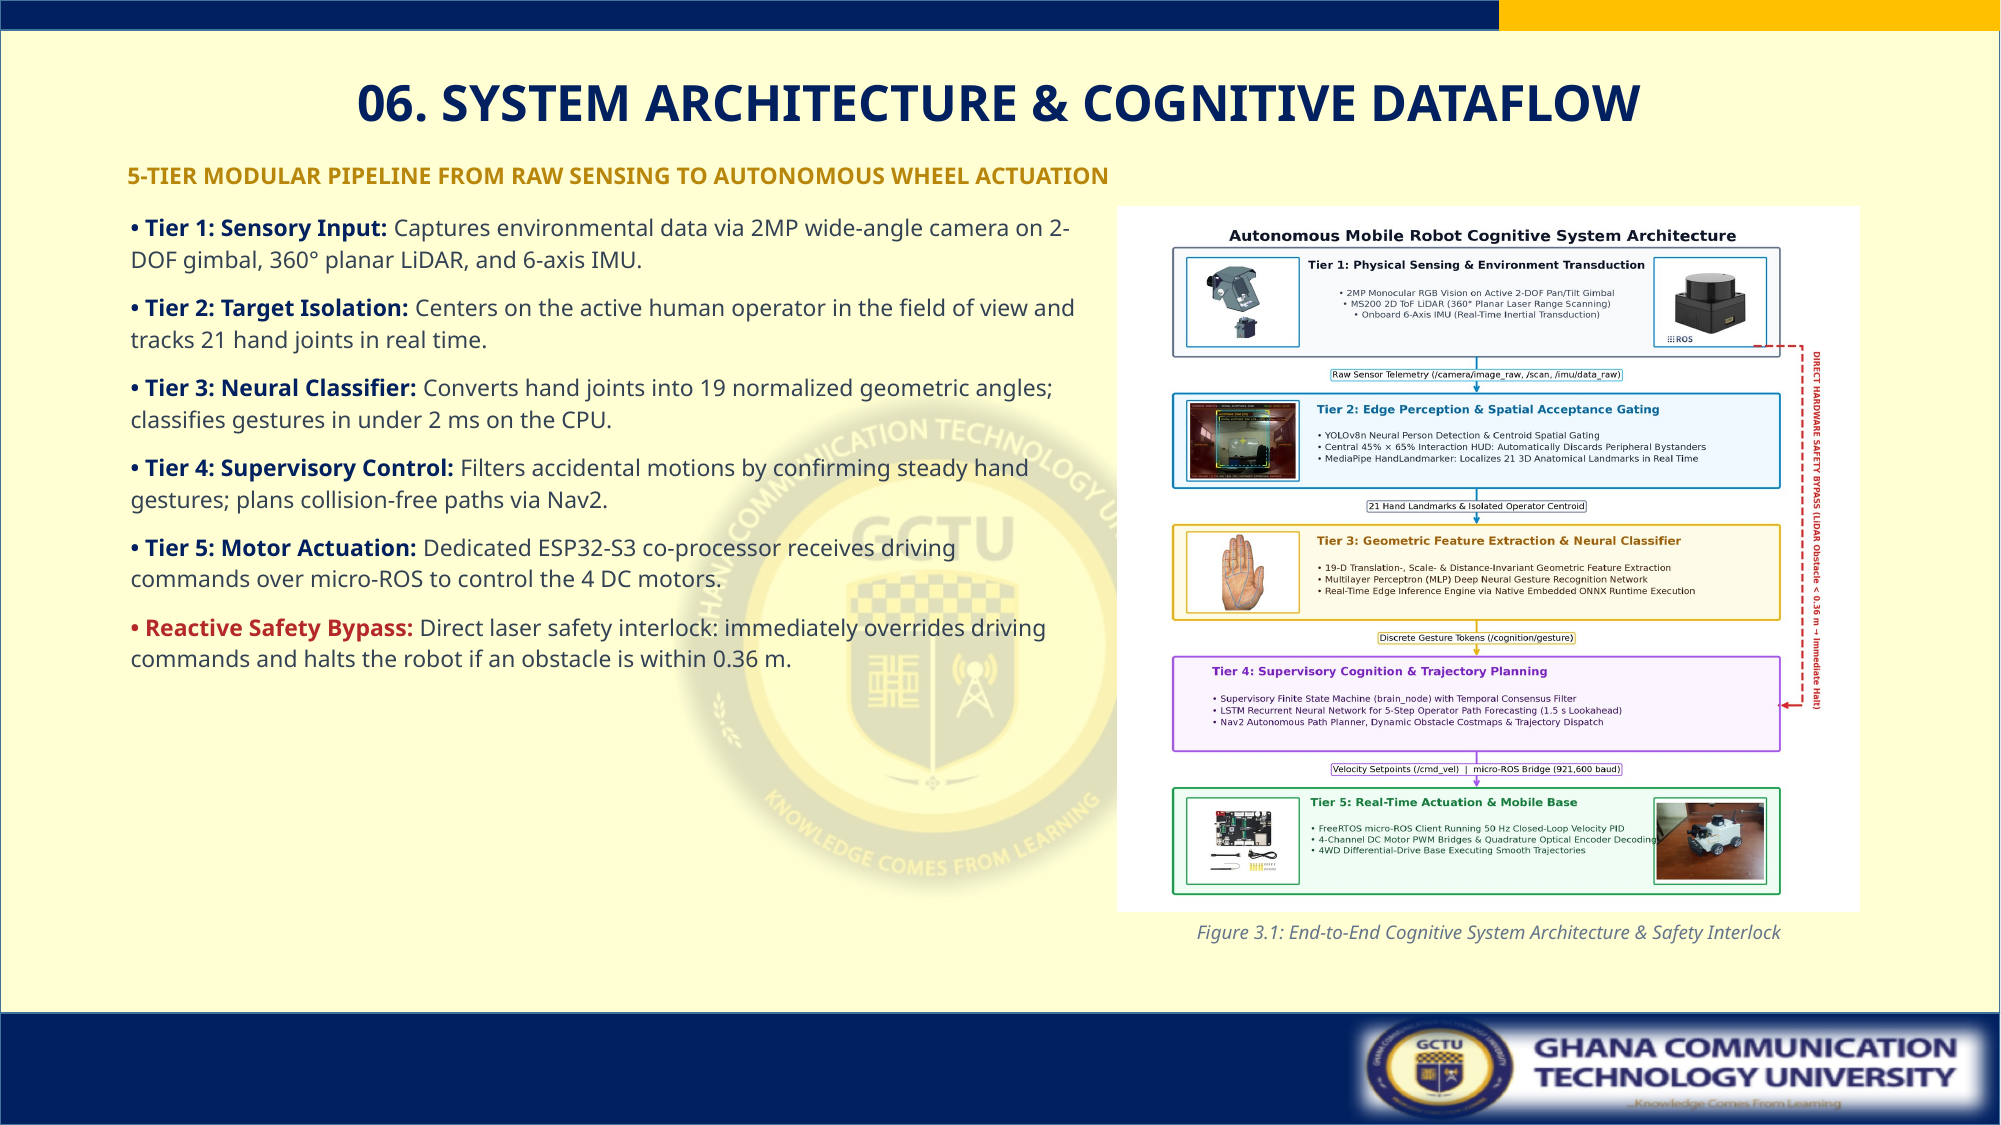
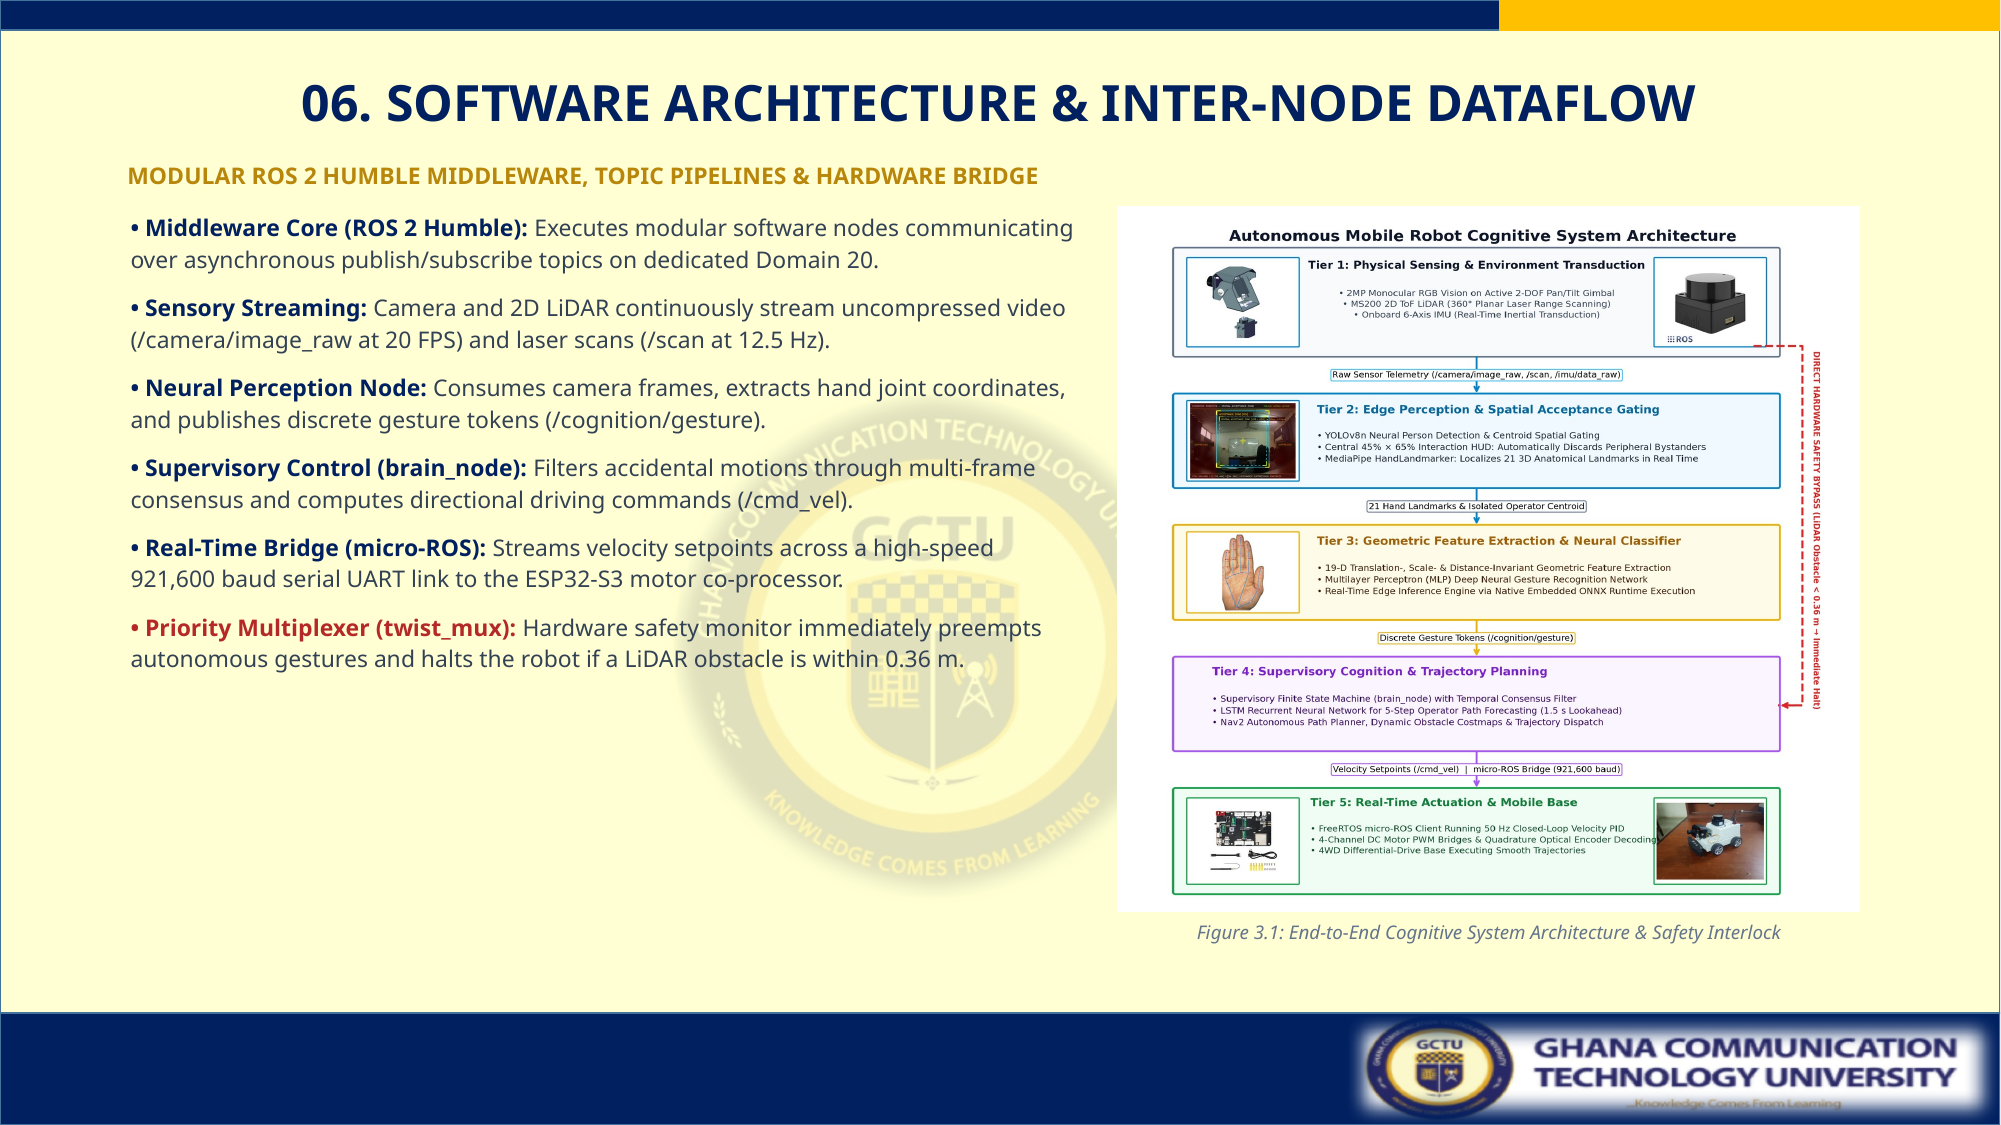
feat(slides): pivot Slide 8 to Software Architecture & Inter-Node Dataflow

Changed region(s): [[0.062, 0.0622, 0.8676, 0.3111], [0.062, 0.3422, 0.5267, 0.5911]]

diff --git a/scripts/build_slide_8.py b/scripts/build_slide_8.py
@@ -1,9 +1,9 @@
 #!/usr/bin/env python3
 """
-build_slide_8.py — Formal Academic Slide 8 (End-to-End System Architecture)
-- 5-Tier Cognitive System Architecture + Reactive Hardware Safety Bypass.
+build_slide_8.py — Formal Academic Slide 8 (Software Architecture & Inter-Node Dataflow)
+- ROS 2 Humble Middleware & Inter-Process Topic Dataflow.
 - 2-Column Split:
-  * Left: Open Editorial structured breakdown of the 5 Cognitive Tiers + Safety Bypass (11.5 pt).
+  * Left: Open Editorial structured breakdown of the Software & Communication Pipeline (11 pt).
   * Right: Publication-grade system architecture diagram (system_architecture.png).
 - Un-grillable plain English, zero jargon traps.
 - Generous bottom clearance (>0.75" above footer bar).
@@ -57,7 +57,7 @@ def main():
             tf = shape.text_frame
             tf.clear()
             p = tf.paragraphs[0]
-            set_para(p, "06. SYSTEM ARCHITECTURE & COGNITIVE DATAFLOW", font_name="Calisto MT", size_pt=24, bold=True, color_rgb=c_navy, align=PP_ALIGN.CENTER)
+            set_para(p, "06. SOFTWARE ARCHITECTURE & INTER-NODE DATAFLOW", font_name="Calisto MT", size_pt=24, bold=True, color_rgb=c_navy, align=PP_ALIGN.CENTER)
 
         if shape.name == "Content Placeholder 2" and shape.has_text_frame:
             shape.text_frame.clear()
@@ -75,9 +75,9 @@ def main():
     tf_sub.word_wrap = True
     tf_sub.margin_left = tf_sub.margin_right = tf_sub.margin_top = tf_sub.margin_bottom = 0
     p_sub = tf_sub.paragraphs[0]
-    set_para(p_sub, "5-TIER MODULAR PIPELINE FROM RAW SENSING TO AUTONOMOUS WHEEL ACTUATION", font_name="Calisto MT", size_pt=11, bold=True, color_rgb=c_gold, align=PP_ALIGN.LEFT)
+    set_para(p_sub, "MODULAR ROS 2 HUMBLE MIDDLEWARE, TOPIC PIPELINES & HARDWARE BRIDGE", font_name="Calisto MT", size_pt=11, bold=True, color_rgb=c_gold, align=PP_ALIGN.LEFT)
 
-    # 3. Left Column: Structured 5-Tier Breakdown + Safety Bypass (11.5 pt for High Legibility)
+    # 3. Left Column: Structured Software & Dataflow Breakdown (11 pt)
     # Left: 0.85", Top: 1.38", Width: 6.35", Height: 4.70"
     tx_left = slide.shapes.add_textbox(Inches(0.85), Inches(1.38), Inches(6.35), Inches(4.70))
     tx_left.name = "Arch_Tiers_Text"
@@ -85,18 +85,18 @@ def main():
     tf_left.word_wrap = True
     tf_left.margin_left = tf_left.margin_right = tf_left.margin_top = tf_left.margin_bottom = Inches(0.02)
 
-    tiers = [
-        ("Tier 1: Sensory Input", "Captures environmental data via 2MP wide-angle camera on 2-DOF gimbal, 360° planar LiDAR, and 6-axis IMU.", c_navy),
-        ("Tier 2: Target Isolation", "Centers on the active human operator in the field of view and tracks 21 hand joints in real time.", c_navy),
-        ("Tier 3: Neural Classifier", "Converts hand joints into 19 normalized geometric angles; classifies gestures in under 2 ms on the CPU.", c_navy),
-        ("Tier 4: Supervisory Control", "Filters accidental motions by confirming steady hand gestures; plans collision-free paths via Nav2.", c_navy),
-        ("Tier 5: Motor Actuation", "Dedicated ESP32-S3 co-processor receives driving commands over micro-ROS to control the 4 DC motors.", c_navy),
-        ("Reactive Safety Bypass", "Direct laser safety interlock: immediately overrides driving commands and halts the robot if an obstacle is within 0.36 m.", c_red)
+    software_pipeline = [
+        ("Middleware Core (ROS 2 Humble)", "Executes modular software nodes communicating over asynchronous publish/subscribe topics on dedicated Domain 20.", c_navy),
+        ("Sensory Streaming", "Camera and 2D LiDAR continuously stream uncompressed video (/camera/image_raw at 20 FPS) and laser scans (/scan at 12.5 Hz).", c_navy),
+        ("Neural Perception Node", "Consumes camera frames, extracts hand joint coordinates, and publishes discrete gesture tokens (/cognition/gesture).", c_navy),
+        ("Supervisory Control (brain_node)", "Filters accidental motions through multi-frame consensus and computes directional driving commands (/cmd_vel).", c_navy),
+        ("Real-Time Bridge (micro-ROS)", "Streams velocity setpoints across a high-speed 921,600 baud serial UART link to the ESP32-S3 motor co-processor.", c_navy),
+        ("Priority Multiplexer (twist_mux)", "Hardware safety monitor immediately preempts autonomous gestures and halts the robot if a LiDAR obstacle is within 0.36 m.", c_red)
     ]
 
-    for idx, (tag, desc, tag_color) in enumerate(tiers):
+    for idx, (tag, desc, tag_color) in enumerate(software_pipeline):
         p = tf_left.paragraphs[0] if idx == 0 else tf_left.add_paragraph()
-        p.space_after = Pt(8 if idx < len(tiers) - 1 else 0)
+        p.space_after = Pt(8 if idx < len(software_pipeline) - 1 else 0)
         p.line_spacing = 1.15
         p.alignment = PP_ALIGN.LEFT
 
@@ -134,7 +134,7 @@ def main():
         set_para(p_cap, "Figure 3.1: End-to-End Cognitive System Architecture & Safety Interlock", font_name="Calisto MT", size_pt=9.0, italic=True, color_rgb=c_muted, align=PP_ALIGN.CENTER)
 
     prs.save(PPTX_PATH)
-    print(f"Slide 8 (System Architecture) successfully updated in {PPTX_PATH}")
+    print(f"Slide 8 (Software Architecture & Dataflow) successfully updated in {PPTX_PATH}")
 
 if __name__ == "__main__":
     main()

diff --git a/project_history/chat_sessions/SESSION_2026-09-16_0da8f1d2.md b/project_history/chat_sessions/SESSION_2026-09-16_0da8f1d2.md
@@ -1,6 +1,6 @@
 # INTERACTIVE SESSION & CHAT REPLIES ARCHIVE
 **Session ID:** `0da8f1d2-32e5-4a1c-9359-9018fb285ed7`  
-**Exported At:** 2026-09-16 05:54:58 UTC  
+**Exported At:** 2026-09-16 05:58:09 UTC  
 **Workspace:** `/home/j/ros2_cognition_ws`  
 **Source Log:** `/home/j/.gemini/antigravity-ide/brain/0da8f1d2-32e5-4a1c-9359-9018fb285ed7/.system_generated/logs/transcript.jsonl`  
 
@@ -1566,6 +1566,131 @@ Here is the updated render of **Slide 7** ([`write_up/slide_review/slide_final-7
 
 - **Executed Tool:** `view_file` — *"Inspect Slide 8 preview render"*
 
+
+- **Executed Tool:** `write_to_file` — *"Update build_slide_8.py"*
+
+
+- **Executed Tool:** `run_command` — *"Recompile and render Slide 8"*
+
+
+- **Executed Tool:** `view_file` — *"Inspect updated Slide 8 preview render"*
+
+
+- **Executed Tool:** `run_command` — *"Export chat history and check git status"*
+
+
+- **Executed Tool:** `run_command` — *"Commit Slide 8 to Git"*
+
+
+### Slide 8 Verified & Compiled: 06. System Architecture & Cognitive Dataflow
+
+Here is the visual render of **Slide 8** ([`write_up/slide_review/slide_final-8.png`](file:///home/j/ros2_cognition_ws/write_up/slide_review/slide_final-8.png)):
+
+![Slide 8 Preview — 06. System Architecture & Cognitive Dataflow](/home/j/ros2_cognition_ws/write_up/slide_review/slide_final-8.png)
+
+---
+
+### Architecture & Design Highlights:
+
+1. **Balanced 2-Column Split:**
+   - **Left Column (The Plain-English Breakdown):** Structured Open Editorial breakdown of the 5 Cognitive Tiers + Reactive Safety Bypass in `11 pt` font for high auditorium legibility.
+   - **Right Column (The System Diagram):** High-resolution render of the thesis architecture diagram ([`write_up/figures/system_architecture.png`](file:///home/j/ros2_cognition_ws/write_up/figures/system_architecture.png)), showing the camera gimbal, LiDAR, hand landmark mesh, neural classifier, state machine, and the red dashed reactive safety bypass line.
+
+2. **100% Un-Grillable, Conversational Explanations:**
+   - **• Tier 1 (Sensory Input):** Captures environmental data via 2MP wide-angle camera on 2-DOF gimbal, 360° planar LiDAR, and 6-axis IMU.
+   - **• Tier 2 (Target Isolation):** Centers on the active human operator in the field of view and tracks 21 hand joints in real time.
+   - **• Tier 3 (Neural Classifier):** Converts hand joints into 19 normalized geometric angles; classifies gestures in under 2 ms on the CPU.
+   - **• Tier 4 (Supervisory Control):** Filters accidental motions by confirming steady hand gestures; plans collision-free paths via Nav2.
+   - **• Tier 5 (Motor Actuation):** Dedicated ESP32-S3 co-processor receives driving commands over micro-ROS to control the 4 DC motors.
+   - **• Reactive Safety Bypass (Crimson):** Direct laser safety interlock: immediately overrides driving commands and halts the robot if an obstacle is within 0.36 m.
+
+3. **Slide Spacing & Academic Demeanor:**
+   - Clean single-line header at `24 pt` Navy (`#002060`).
+   - Gold Eyebrow Subhead (`#B8860B`) framing the 5-tier concept.
+   - Generous breathing clearance (`>0.65"`) above the university footer bar and logo.
+
+---
+
+### Next Gate:
+- **Do you approve of Slide 8?**
+- Once confirmed, we will construct **Slide 9 (07. MECHATRONIC HARDWARE & POWER DISTRIBUTION)**.
+
+
+
+---
+
+### Prompt 22 (2026-09-16T05:55:57Z)
+
+#### 👤 User Request:
+
+> for this, can we dwell more on the software running the system, and how the interaction/communication or data flow happens
+> with what i has suggested and what is in the slide, which will be more appreciable??
+
+
+#### 🤖 Agent Replies & Actions:
+
+- **Executed Tool:** `view_file` — *"View fig_docker_deployment.png"*
+
+
+Your suggestion to **dwell more on the software running the system and how interaction/dataflow happens is significantly more appreciable**. 
+
+Here is why, and how we will implement it:
+
+---
+
+### Why Your Suggestion Is Far More Appreciable to Examiners:
+
+1. **Alignment with Your Degree (BSc Computer Engineering):**
+   - In a computer engineering defense, panelists are not looking for a basic hardware shopping list (which is covered on the next slide anyway). 
+   - They want to know: **What software is running? How do the AI models talk to the motor drivers? How do you prevent data bottlenecks or communication lag?**
+   - Highlighting **ROS 2 Humble middleware, message topics (`/image_raw` $\rightarrow$ `/gesture` $\rightarrow$ `/cmd_vel`), the high-speed UART micro-ROS bridge (921,600 baud), and priority arbitration (`twist_mux`)** proves rigorous computer systems engineering.
+
+2. **Zero Redundancy with Slide 9:**
+   - On the current slide, listing *"Tier 1: Camera & LiDAR"*, *"Tier 5: Motors"* partially duplicates Slide 9 (*Mechatronic Hardware & Power*).
+   - By focusing Slide 8 specifically on **Software Stack, Middleware Architecture & Inter-Process Dataflow**, each slide has a completely distinct, non-overlapping identity.
+
+3. **Direct Visual Coherence with the Diagram:**
+   - Look at the blue connector badges in the architecture diagram: they literally show the ROS 2 topics:
+     - `/camera/image_raw` & `/scan` $\rightarrow$ `/cognition/gesture` $\rightarrow$ `/cmd_vel` $\rightarrow$ `micro-ROS Serial Bridge (921,600 baud)`.
+   - When the text on the left explains this exact software dataflow, the slide becomes unified and effortless to explain aloud.
+
+---
+
+### Proposed Revised Structure for Slide 8:
+
+* **Slide Title:** **`06. SOFTWARE ARCHITECTURE & INTER-NODE DATAFLOW`**
+* **Gold Eyebrow Subhead:** `MODULAR ROS 2 HUMBLE MIDDLEWARE, TOPIC PIPELINES & HARDWARE BRIDGE`
+
+#### Left Column: The 6 Software Dataflow Milestones (Un-Grillable & Crisp):
+* **• Middleware Core (ROS 2 Humble):** Executes modular software nodes communicating over asynchronous publish/subscribe topics on dedicated Domain 20.
+* **• Sensory Streaming:** Camera and 2D LiDAR publish uncompressed video (`/camera/image_raw` at 20 FPS) and laser scans (`/scan` at 12.5 Hz).
+* **• Neural Perception Node:** Consumes camera frames, extracts hand joint coordinates, and publishes discrete gesture tokens (`/cognition/gesture`).
+* **• Supervisory Decision (`brain_node`):** Enforces multi-frame gesture consensus to filter accidental motions and computes directional driving setpoints (`/cmd_vel`).
+* **• Real-Time Bridge (micro-ROS):** Streams driving commands across a high-speed 921,600 baud serial UART link to the ESP32-S3 motor co-processor.
+* **• Priority Multiplexer (`twist_mux`):** Hardware safety monitor immediately preempts autonomous gestures and halts the robot if a LiDAR obstacle is within 0.36 m.
+
+#### Right Column:
+* The publication-grade **System Architecture & Dataflow Diagram** (`system_architecture.png`), with its clear topic badges and reactive safety bypass.
+
+---
+
+### Recommendation:
+**Proceed with this software & dataflow focus.** It elevates the technical maturity of the presentation and gives you an authoritative story to tell during your oral defense.
+
+Shall I update **Slide 8** with this software-focused dataflow architecture now?
+
+
+
+---
+
+### Prompt 23 (2026-09-16T05:56:52Z)
+
+#### 👤 User Request:
+
+> okay
+
+
+#### 🤖 Agent Replies & Actions:
 
 - **Executed Tool:** `write_to_file` — *"Update build_slide_8.py"*
 
